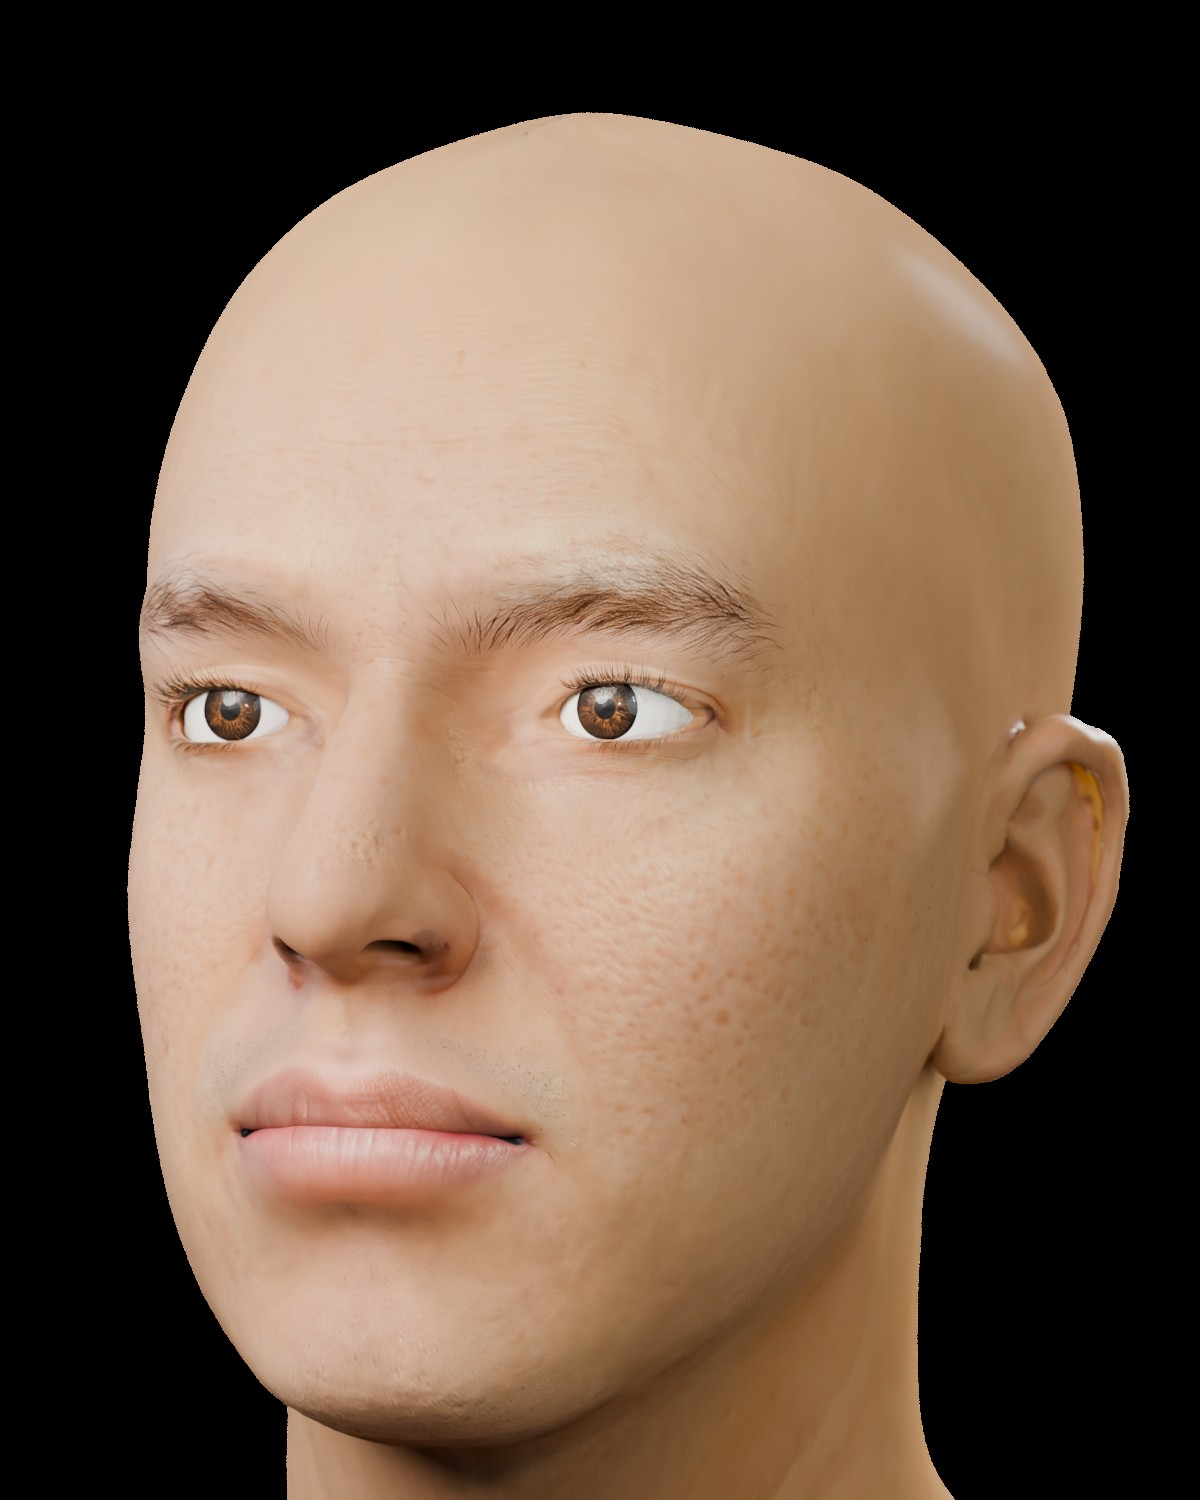
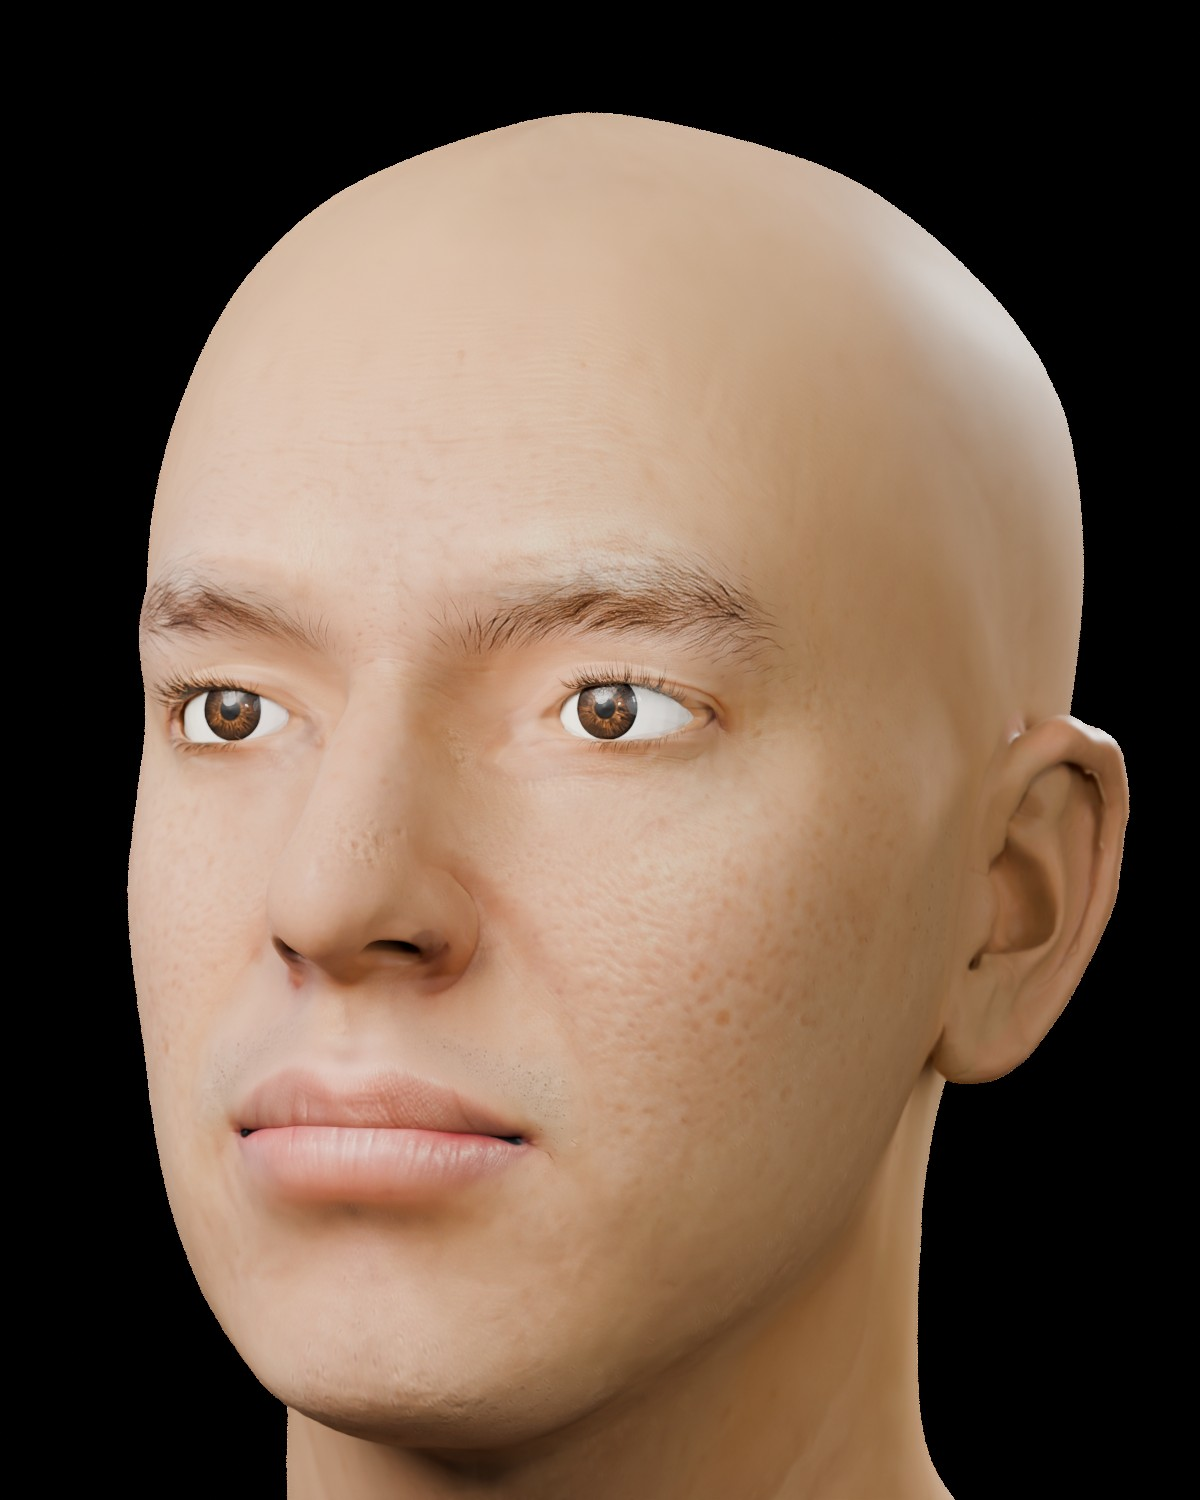
3D: fixed hero renders, a seven-skin tone ladder, texture tone labels, notes for cloud sessions
- docs/3d/ID012_*: re-rendered after fixing the forehead band (material maps were 0 over the scalp), the
  orange ear glow (ear scattering scale), the crown mark (texture island padding), a streak by one outer
  eye corner and a glint at the ear root. Turntable at 600 px.
- docs/3d/tone_ladder.jpg, tone_ladder_front.jpg, renders.csv: seven identities' skin maps on ID012's head,
  same eyes, brows, lights and locked exposure, ordered by the texture's measured cheek ITA (+69 to -55).
- labels/texture_ita.csv: cheek ITA measured on the 31 gated skin textures.
- docs/3d/same_head_two_skins.jpg removed; the ladder replaces it (README link to be updated).
- CLAUDE.md: who edits what, hard rules and checked facts for cloud sessions.

[P-2026-11-05-01, provisional]

Claude-Session: https://claude.ai/code/session_01Qi6L3VzNQwkrYRvf8q9H76

Changed region(s): [[0.6783, 0.092, 0.925, 0.4293], [0.8942, 0.4907, 0.925, 0.5827], [0.8325, 0.6133, 0.8633, 0.644]]

diff --git a/CLAUDE.md b/CLAUDE.md
@@ -1,0 +1,59 @@
+# Notes for Claude sessions working on this repository
+
+This is a portfolio project for Ao Zuo's CV. It should look good, and every number in it must be correct. Two
+kinds of session work on it:
+
+- **The local session** on Ao's Mac. It has the full-size portraits, the private texture and head pipeline,
+  Blender, and the 31 skin textures. It produces everything under `docs/3d/`, plus `labels/texture_ita.csv`.
+- **Cloud sessions** (this file is mostly for you). You have only this repository. You own the write-up and the
+  site: `README.md`, `index.html`, `code/`, `LICENSE`, `LICENSE-DATA`.
+
+## Who edits what
+
+| Path | Owner | Cloud sessions |
+|---|---|---|
+| `docs/3d/**`, `labels/texture_ita.csv`, `CLAUDE.md` | local session | read, link, describe; never edit or regenerate |
+| `README.md`, `index.html`, `code/**`, `docs/*.png|jpg` outside `docs/3d` | cloud session | edit freely |
+| `LICENSE*`, the credit name | Ao's decision | keep as they are, flag questions |
+| `images/`, `labels/*` except texture_ita.csv, `prompts/` | frozen data | never edit |
+
+Work on your own branch, not `main`. Before editing, merge the latest local-session branch (named in the brief
+you were given, for example `3d-ladder`). Commit as `Ao Zuo <316852364+0vvI@users.noreply.github.com>`.
+
+## Hard rules
+
+- Don't make the repository public, enable GitHub Pages, or change visibility, collaborators or settings. Those
+  steps are Ao's.
+- Don't choose or change the data licence or the credit name. If the text needs a decision, write the question
+  in your summary.
+- The 3D images may not be described as anything they aren't:
+  - The head shape is one generic FLAME 2023 Open head for every skin, not a fit to the portrait.
+  - The skin texture is made from the identity's text description by recolouring a template texture. It is not
+    made from the portrait.
+  - Textures are made at 8192 px; the renders use 4096 px material maps. Say "4K material maps", not "8K".
+  - Tone-ladder images: the same head, eyes, brows and lighting for every skin. Only the identity-dependent skin
+    maps change (colour, subdermal colour, scattering weight, specular; the ear's colour tile is matched to each
+    skin). The exposure is locked to the hero's for every skin, so brightness differences are the skin's.
+  - Texture tone and portrait tone are different measurements: unlit albedo against a studio-lit JPEG. Compare
+    their orderings, not their levels (the darkest textures are far darker than their portraits).
+- The pipeline code, `.blend` files and texture maps are not in this repo and will not be. Don't promise them.
+- Every number in the README must come from a file in this repo. Recompute it, don't copy it.
+
+## Facts you can rely on
+
+- Median cheek ITA per prompted tone (from `labels/measurements_v1.csv`): 65.5, 55.4, 53.2, 51.5, 52.0, 51.4,
+  44.4, 36.5, 25.4, 4.9 (unrounded 4.945). The 4 Nov table had 53.3, 36.6 and 5.0; those three cells were wrong.
+- No prompt names a tone or a number. Each Monk tone is written as a phrase (`skin_words` in
+  `labels/identities_v0.csv`, e.g. tone 3 "light skin with warm undertone", tone 6 "medium-tan skin"). Say "the
+  phrases for tones 2–6 barely change the measured ITA", not "naming a middle tone".
+- YuNet (`code/face_detection_yunet_2023mar.onnx`) is MIT licensed. Any comment that says Apache-2.0 is wrong.
+- FLAME 2023 Open is CC BY 4.0. The 3D renders use its head shape, so the README must credit it:
+  "FLAME 2023 Open head model (Li et al., Max Planck Institute for Intelligent Systems), CC BY 4.0".
+- 31 of the 100 identities have a skin texture that passed every automatic gate. They cover prompted tones 1–9
+  (none at 10). `labels/texture_ita.csv` gives each one's cheek ITA measured on the texture: the 8192 px texture
+  reduced to 2048, two 0.07 W square patches centred at UV (0.325, 0.54) and (0.675, 0.54) (top-down), median
+  CIELAB, ITA averaged over the two. On these 31, Spearman between prompted tone and texture ITA is −0.96; between
+  prompted tone and portrait ITA it is −0.83 (re-derived independently on 5 Nov; recompute before quoting).
+- `docs/3d/renders.csv` lists what is in `docs/3d/tone_ladder.jpg`, column by column. Its `file` column names the
+  local render, which is not in this repo.
+- The gallery link (GitHub Pages) works only after Ao makes the repo public and turns Pages on.
